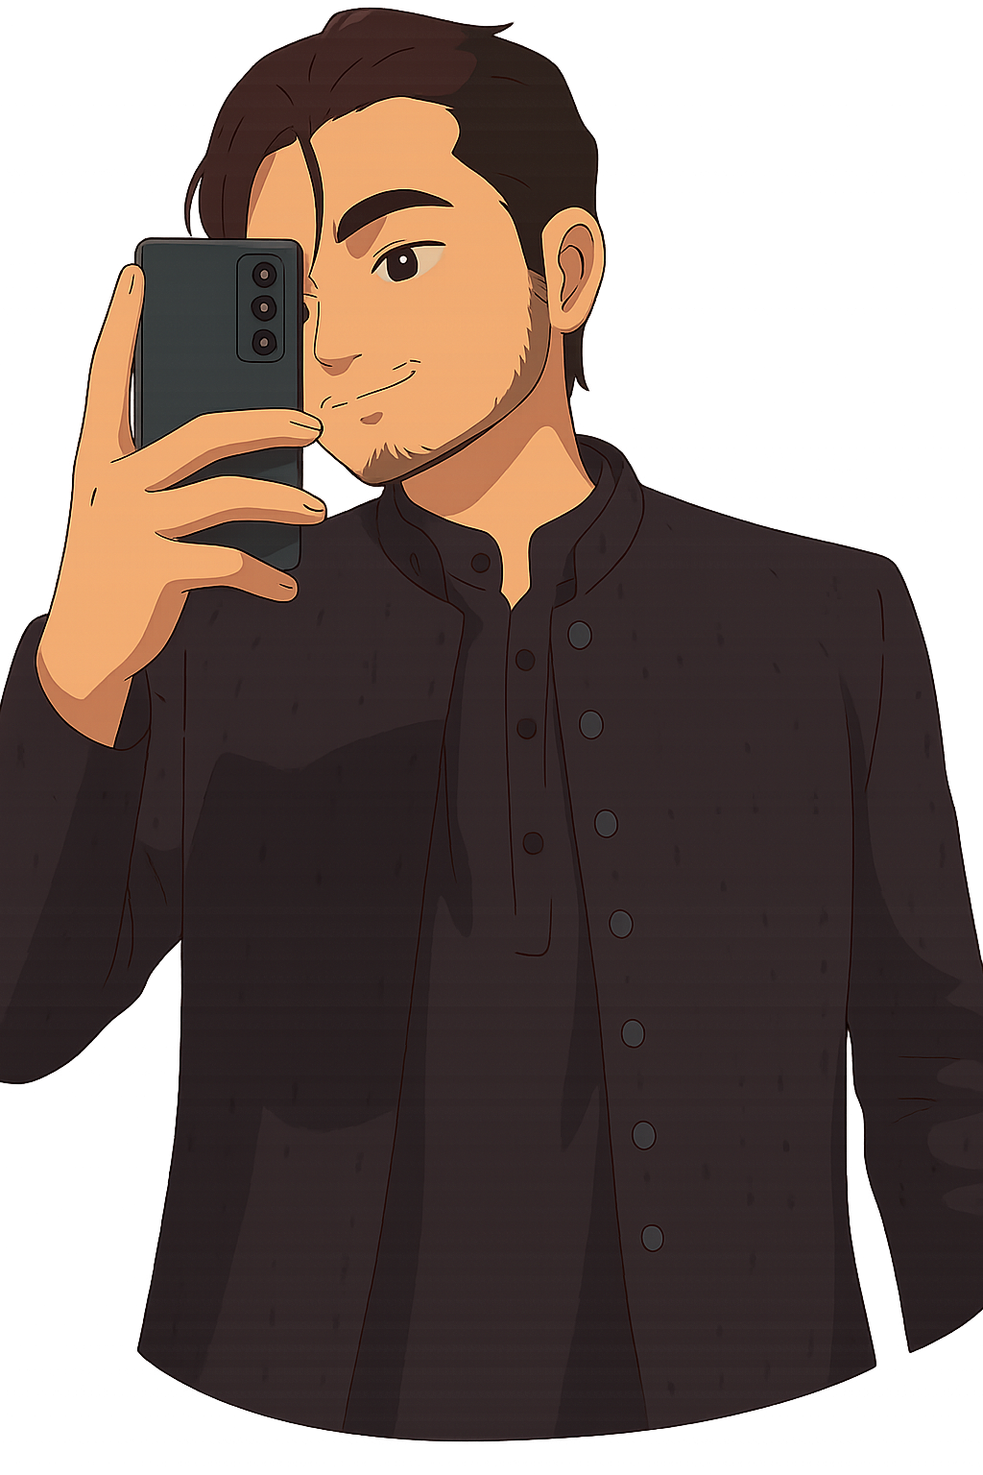
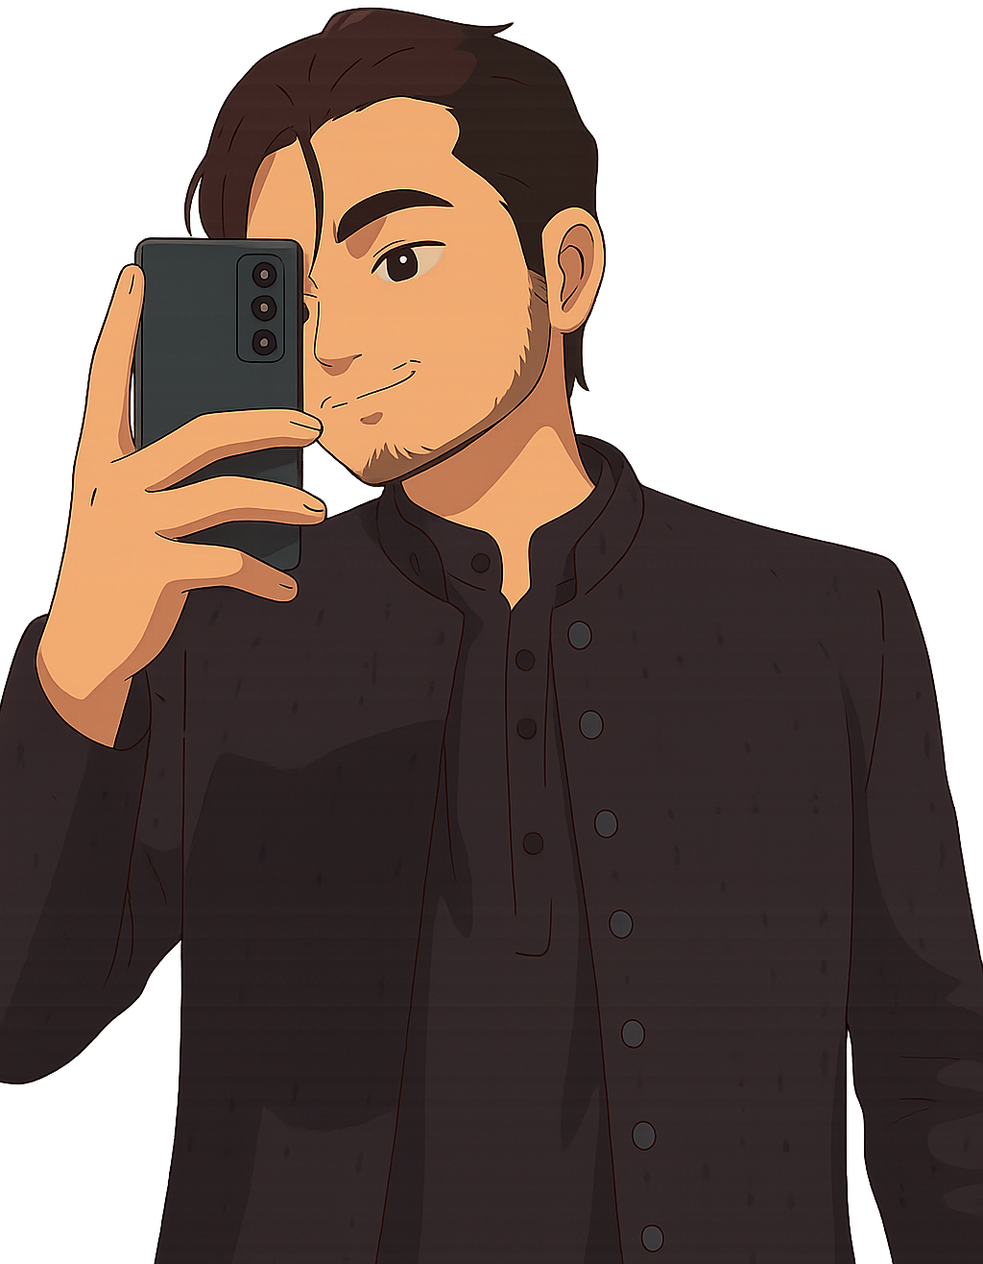
change in UI and then change the profile pic.

diff --git a/portfolio/src/components/About/About.jsx b/portfolio/src/components/About/About.jsx
@@ -25,34 +25,31 @@ function About() {
   return (
     <>
       <div className="col-span-8 row-span-9 grid grid-cols-subgrid grid-rows-subgrid max-lg:col-span-full max-lg:grid-rows-none max-lg:gap-4">
-        {/* Box 1: Introduction */}
-        <div className="box-1 col-span-5 row-span-5 max-lg:col-span-8 max-md:col-span-full bg-bison_hide border-bison_hide rounded-xl py-1 p-8 flex flex-col justify-end">
-          <h1 className="max-w-[37rem] pb-6 font-heading text-[2rem] font-normal leading-snug px-20">
+        <div className="box-1 col-span-5 row-span-5 max-lg:col-span-8 max-md:col-span-full bg-bison_hide border-bison_hide rounded-xl p-8 flex flex-col justify-end">
+          <h1 className="max-w-[37rem] pb-6 font-heading font-serif text-[2rem] font-normal leading-snug xl:px-20">
             Hi, I'm Sameer Singhal
           </h1>
-          <h2 className="max-w-[35rem] pb-8 font-heading text-[1rem] font-normal leading-snug">
-            <span className="italic text-[1.5rem]">
-              Pre-Final Year CSE Student & Full Stack Developer
-            </span>{" "}
-            Passionate about solving real-world problems through Data Structures, Algorithms, Development, and Competitive Programming. Currently pursuing Computer Science with a focus on building a strong foundation in modern software development and coding excellence.
+          <h2 className="max-w-[35rem] font-heading font-serif text-[1rem] font-normal leading-snug">
+            <span className="italic text-[1.4rem] block mb-4">
+              Pre-Final Year CSE Student & Full Stack Developer{" "}
+            </span>
+            <span className="block mt-4">
+              Passionate about solving real-world problems through Data Structures, Algorithms, Development, and Competitive Programming. Currently pursuing Computer Science with a focus on building a strong foundation in modern software development and coding excellence.
+            </span>
           </h2>
         </div>
-
-        {/* Box 2: Profile Image */}
         <div className="box-2 col-span-3 row-span-5 max-lg:col-span-4 max-md:col-span-full bg-armadillo border-armadillo rounded-xl">
           <img
-            src="Profile_pic.png"
+            src="Profile_picture.png"
             fetchPriority="high"
             decoding="async"
             alt="profile_image"
-            className="w-full object-full xl:p-8 xl:object-cover"
+            className="w-full max-h-full"
           />
         </div>
-
-        {/* Box 3: About Me */}
         <div className="box-3 col-span-4 row-span-4 max-lg:col-span-6 max-lg:min-h-[20rem] max-md:col-span-full bg-bison_hide border-bison_hide rounded-xl">
           <div className="flex size-full flex-col justify-between gap-4">
-            <p className="max-w-[30rem] text-[.9rem] p-5 leading-[135%]">
+            <p className="max-w-[30rem] text-[.9rem] p-5 leading-[135%] font-heading font-serif">
               👨🎓
               <br />
               About Me 
@@ -67,25 +64,21 @@ function About() {
               <br />
               I thrive on tackling challenging problems and love turning ideas into real-world applications. I'm also enthusiastic about exploring new technologies, continuously learning, and growing as a developer.
               <br />
-              Beyond the code, you'll often find me immersed in music 🎧, enjoying games 🎮, or diving into the latest tech trends.
-              <br />
               Let's connect, code, and collaborate! 🚀
             </p>
           </div>
         </div>
-
-        {/* Box 4: Location & Hobbies */}
         <div className="box-4 col-span-4 row-span-4 max-lg:col-span-6 max-lg:min-h-[20rem] max-md:col-span-full bg-armadillo border-armadillo rounded-xl relative overflow-hidden">
           <div className="flex size-full flex-col justify-between gap-4 p-5">
             <div>
-              <h3 className="text-[#e5decd] text-xl font-semibold mb-3">Where I'm From</h3>
-              <p className="text-[#e5decd] text-base">
+              <h3 className="text-[#e5decd] text-xl font-semibold mb-3 font-heading font-serif">Where I'm From</h3>
+              <p className="text-[#e5decd] text-base font-heading font-serif">
                 I'm from India 🇮🇳, a vibrant country with a rich culture and diverse landscapes. I enjoy exploring new places and experiencing different traditions.
               </p>
             </div>
             <div>
-              <h3 className="text-[#e5decd] text-xl font-semibold mb-3">Hobbies</h3>
-              <p className="text-[#e5decd] text-base">
+              <h3 className="text-[#e5decd] text-xl font-semibold mb-3 font-heading font-serif">Hobbies</h3>
+              <p className="text-[#e5decd] text-base font-heading font-serif">
                 Beyond coding, I love immersing myself in music 🎧, enjoying games 🎮, and diving into the latest tech trends. I also enjoy reading and playing outdoor sports.
               </p>
             </div>
@@ -98,7 +91,7 @@ function About() {
         <div className="box-5 col-span-4 row-span-8 max-lg:col-span-full bg-bison_hide border-bison_hide rounded-xl overflow-y-auto">
           <div className="flex h-full flex-col p-6 gap-2">
             <div className="mb-4">
-              <h3 className="font-heading text-xl font-semibold mb-3 text-[#06141B]">Languages</h3>
+              <h3 className="font-heading font-serif text-xl font-semibold mb-3 text-[#06141B]">Languages</h3>
               <div className="flex flex-wrap gap-2">
                 {technicalSkills.filter(skill => skill.category === 'Languages').map(skill => (
                   <span key={skill.name} className="inline-flex items-center rounded-md border px-2.5 py-0.5 text-xs font-medium text-[#06141B] bg-armadillo border-[#06141B]">{skill.name}</span>
@@ -106,7 +99,7 @@ function About() {
               </div>
             </div>
             <div className="mb-4">
-              <h3 className="font-heading text-xl font-semibold mb-3 text-[#06141B]">Frameworks & Libraries</h3>
+              <h3 className="font-heading font-serif text-xl font-semibold mb-3 text-[#06141B]">Frameworks & Libraries</h3>
               <div className="flex flex-wrap gap-2">
                 {technicalSkills.filter(skill => skill.category === 'Frameworks').map(skill => (
                   <span key={skill.name} className="inline-flex items-center rounded-md border px-2.5 py-0.5 text-xs font-medium text-[#06141B] bg-armadillo border-[#06141B]">{skill.name}</span>
@@ -114,7 +107,7 @@ function About() {
               </div>
             </div>
             <div>
-              <h3 className="font-heading text-xl font-semibold mb-3 text-[#06141B]">Tools & Technologies</h3>
+              <h3 className="font-heading font-serif text-xl font-semibold mb-3 text-[#06141B]">Tools & Technologies</h3>
               <div className="flex flex-wrap gap-2">
                 {technicalSkills.filter(skill => skill.category === 'Tools' || skill.category === 'Technologies' || skill.category === 'Databases' || skill.category === 'Backend as a Service' || skill.category === 'DevOps').map(skill => (
                   <span key={skill.name} className="inline-flex items-center rounded-md border px-2.5 py-0.5 text-xs font-medium text-[#06141B] bg-armadillo border-[#06141B]">{skill.name}</span>
@@ -123,15 +116,13 @@ function About() {
             </div>
           </div>
         </div>
-
-        {/* Box 6: Social Links */}
         <div className="box-6 col-span-4 row-span-1 max-lg:col-span-full max-lg:min-h-[5rem] bg-bison_hide border-bison_hide rounded-xl">
           <div className="flex size-full items-center justify-evenly gap-2">
             <a
               href="https://www.linkedin.com/in/sameersinghal26"
               target="_blank"
               rel="noopener noreferrer"
-              className="flex overflow-hidden text-xl font-medium leading-[100%] text-gray-500 hover:text-[#06141B] hover:bg-gray-50 lg:hover:bg-transparent lg:p-0"
+              className="flex overflow-hidden text-xl font-medium leading-[100%] text-gray-500 hover:text-[#06141B] hover:bg-gray-50 lg:hover:bg-transparent lg:p-0 font-heading font-serif"
             >
               LinkedIn
             </a>
@@ -139,7 +130,7 @@ function About() {
               href="https://github.com/SameerSinghal26"
               target="_blank"
               rel="noopener noreferrer"
-              className="flex overflow-hidden text-xl font-medium leading-[100%] text-gray-500 hover:text-[#06141B] hover:bg-gray-50 lg:hover:bg-transparent lg:p-0"
+              className="flex overflow-hidden text-xl font-medium leading-[100%] text-gray-500 hover:text-[#06141B] hover:bg-gray-50 lg:hover:bg-transparent lg:p-0 font-heading font-serif"
             >
               Github
             </a>
@@ -147,7 +138,7 @@ function About() {
               href="https://x.com/SameerS73068018"
               target="_blank"
               rel="noopener noreferrer"
-              className="flex overflow-hidden text-xl font-medium leading-[100%] text-gray-500 hover:text-[#06141B] hover:bg-gray-50 lg:hover:bg-transparent lg:p-0"
+              className="flex overflow-hidden text-xl font-medium leading-[100%] text-gray-500 hover:text-[#06141B] hover:bg-gray-50 lg:hover:bg-transparent lg:p-0 font-heading font-serif"
             >
               Twitter
             </a>

diff --git a/portfolio/src/components/Home/Home.jsx b/portfolio/src/components/Home/Home.jsx
@@ -10,30 +10,31 @@ function Home() {
   return (
     <>
       <div className="col-span-8 row-span-9 grid grid-cols-subgrid grid-rows-subgrid max-lg:col-span-full max-lg:grid-rows-none max-lg:gap-4">
-        <div className="box-1 col-span-5 row-span-5 max-lg:col-span-8 max-md:col-span-full bg-bison_hide border-bison_hide rounded-xl  py-1 p-8 flex flex-col justify-end">
-          <h1 className="max-w-[37rem] pb-6 font-heading text-[2rem] font-normal leading-snug xl:px-20">
+        <div className="box-1 col-span-5 row-span-5 max-lg:col-span-8 max-md:col-span-full bg-bison_hide border-bison_hide rounded-xl p-8 flex flex-col justify-end">
+          <h1 className="max-w-[37rem] pb-6 font-heading font-serif text-[2rem] font-normal leading-snug xl:px-20">
             Hi, I'm Sameer Singhal
           </h1>
-          <h2 className="max-w-[35rem] pb-8 font-heading text-[1rem] font-normal leading-snug">
-            <span className="italic text-[1.5rem]">
-              {" "}
+          <h2 className="max-w-[35rem] font-heading font-serif text-[1rem] font-normal leading-snug">
+            <span className="italic text-[1.4rem] block mb-4">
               Pre-Final Year CSE Student & Full Stack Developer{" "}
-            </span>{" "}
-            Passionate about solving real-world problems through Data Structures, Algorithms, Development, and Competitive Programming. Currently pursuing Computer Science with a focus on building a strong foundation in modern software development and coding excellence.
+            </span>
+            <span className="block mt-4">
+              Passionate about solving real-world problems through Data Structures, Algorithms, Development, and Competitive Programming. Currently pursuing Computer Science with a focus on building a strong foundation in modern software development and coding excellence.
+            </span>
           </h2>
         </div>
         <div className="box-2 col-span-3 row-span-5 max-lg:col-span-4 max-md:col-span-full bg-armadillo border-armadillo rounded-xl">
           <img
-            src="Profile_pic.png"
+            src="Profile_picture.png"
             fetchPriority="high"
             decoding="async"
             alt="profile_image"
-            className="w-full  object-full xl:p-8 xl:object-cover"
+            className="w-full max-h-full"
           />
         </div>
         <div className="box-3 col-span-4 row-span-4 max-lg:col-span-6 max-lg:min-h-[20rem] max-md:col-span-full bg-bison_hide border-bison_hide rounded-xl">
           <div className="flex size-full flex-col justify-between gap-4">
-            <p className="max-w-[30rem] text-[.9rem] p-5 leading-[135%]">
+            <p className="max-w-[30rem] text-[.9rem] p-5 leading-[135%] font-heading font-serif">
               👨🎓
               <br />
               About Me 
@@ -44,19 +45,19 @@ function Home() {
               <br />
               Currently, I'm in my 2nd year of studies.
               <br />
-              Over the past few months, I’ve been building a strong foundation in Data Structures, Algorithms, and Full Stack Web Development.
+              Over the past few months, I've been building a strong foundation in Data Structures, Algorithms, and Full Stack Web Development.
               <br />
               I thrive on tackling challenging problems and love turning ideas into real-world applications. I'm also enthusiastic about exploring new technologies, continuously learning, and growing as a developer.
               <br />
-              Beyond the code, you’ll often find me immersed in music 🎧, enjoying games 🎮, or diving into the latest tech trends.
+              Beyond the code, you'll often find me immersed in music 🎧, enjoying games 🎮, or diving into the latest tech trends.
               <br />
-              Let’s connect, code, and collaborate! 🚀
+              Let's connect, code, and collaborate! 🚀
             </p>
           </div>
         </div>
         <div className="box-4 col-span-4 row-span-4 max-lg:col-span-6 max-lg:min-h-[20rem] max-md:col-span-full bg-armadillo border-armadillo rounded-xl relative overflow-hidden">
           {/* Top left text */}
-          <span className="absolute top-4 left-4 text-[#e5decd] text-base">Have some<br />questions?</span>
+          <span className="absolute top-4 left-4 text-[#e5decd] text-base font-heading font-serif">Have some<br />questions?</span>
           {/* Top right arrow */}
           <span className="absolute top-4 right-4">
             <NavLink
@@ -131,7 +132,7 @@ function Home() {
               href="https://www.linkedin.com/in/sameersinghal26"
               target="_blank"
               rel="noopener noreferrer"
-              className="flex overflow-hidden text-xl font-medium leading-[100%] text-gray-500 hover:text-[#06141B] hover:bg-gray-50 lg:hover:bg-transparent lg:p-0"
+              className="flex overflow-hidden text-xl font-medium leading-[100%] text-gray-500 hover:text-[#06141B] hover:bg-gray-50 lg:hover:bg-transparent lg:p-0 font-heading font-serif"
             >
               LinkedIn
             </a>
@@ -139,7 +140,7 @@ function Home() {
               href="https://github.com/SameerSinghal26"
               target="_blank"
               rel="noopener noreferrer"
-              className="flex overflow-hidden text-xl font-medium leading-[100%] text-gray-500 hover:text-[#06141B] hover:bg-gray-50 lg:hover:bg-transparent lg:p-0"
+              className="flex overflow-hidden text-xl font-medium leading-[100%] text-gray-500 hover:text-[#06141B] hover:bg-gray-50 lg:hover:bg-transparent lg:p-0 font-heading font-serif"
             >
               Github
             </a>
@@ -147,7 +148,7 @@ function Home() {
               href="https://x.com/SameerS73068018"
               target="_blank"
               rel="noopener noreferrer"
-              className="flex overflow-hidden text-xl font-medium leading-[100%] text-gray-500 hover:text-[#06141B] hover:bg-gray-50 lg:hover:bg-transparent lg:p-0"
+              className="flex overflow-hidden text-xl font-medium leading-[100%] text-gray-500 hover:text-[#06141B] hover:bg-gray-50 lg:hover:bg-transparent lg:p-0 font-heading font-serif"
             >
               Twitter
             </a>

diff --git a/portfolio/src/components/Contact/Contact.jsx b/portfolio/src/components/Contact/Contact.jsx
@@ -46,48 +46,48 @@ function Contact() {
     <div className="col-span-12 row-span-9 flex justify-center items-center max-lg:col-span-full max-lg:grid-rows-none max-lg:gap-4">
       <div className="col-span-full bg-bison_hide border-bison_hide rounded-xl p-6 relative w-full sm:w-3/4 md:w-2/3 lg:w-1/2 xl:w-2/5 mx-auto">
         <div className="mx-auto mt-1 h-fit">
-          <div className="border-2 w-1/2 lg:w-1/3 ml-4 h-10 rounded-full border-[#06141B] bg-bison_hide text-[#06141B] pl-5 font-mono">
-            <strong className="text-xl md:text-2xl lg:text-2xl font-mono">Contact Me</strong>
+          <div className="border-2 w-1/2 lg:w-1/3 ml-4 h-10 rounded-full border-[#06141B] bg-bison_hide text-[#06141B] pl-5 font-heading font-serif">
+            <strong className="text-xl md:text-2xl lg:text-2xl font-heading font-serif">Contact Me</strong>
           </div>
           <div className="border-2 border-[#06141B] w-full mx-auto mt-2 h-fit pt-6 px-4 rounded-2xl bg-bison_hide">
-            <p className="text-[#06141B] text-xl mb-6 px-2">
+            <p className="text-[#06141B] text-xl mb-6 px-2 font-heading font-serif">
               You can contact me through completing this form
             </p>
             <form ref={form} onSubmit={sendEmail}>
-              <label htmlFor="name" className="mx-2 text-3xl lg:text-2xl font-mono text-[#06141B]">Name :</label>
+              <label htmlFor="name" className="mx-2 text-3xl lg:text-2xl font-heading font-serif text-[#06141B]">Name :</label>
               <br />
               <input 
                 id="name" 
                 placeholder="name" 
-                className="border-[#06141B] bg-bison_hide text-[#06141B] mx-2 mb-5 p-2 text-xl xl:text-2xl font-mono rounded-xl w-10/11 lg:w-1/2" 
+                className="border-[#06141B] bg-bison_hide text-[#06141B] mx-2 mb-5 p-2 text-xl xl:text-2xl font-heading font-serif rounded-xl w-10/11 lg:w-1/2" 
                 type="text" 
                 name="user_name"
                 required
               />
               <br />
-              <label htmlFor="email" className="mx-2 text-3xl lg:text-2xl font-mono text-[#06141B]">Email :</label>
+              <label htmlFor="email" className="mx-2 text-3xl lg:text-2xl font-heading font-serif text-[#06141B]">Email :</label>
               <br />
               <input 
                 id="email" 
                 placeholder="email" 
-                className="border-[#06141B] bg-bison_hide text-[#06141B] mx-2 mb-5 p-2 text-xl xl:text-2xl font-mono rounded-xl w-10/11 lg:w-1/2" 
+                className="border-[#06141B] bg-bison_hide text-[#06141B] mx-2 mb-5 p-2 text-xl xl:text-2xl font-heading font-serif rounded-xl w-10/11 lg:w-1/2" 
                 type="email" 
                 name="user_email"
                 required
               />
               <br />
-              <label htmlFor="message" className="mx-2 text-3xl lg:text-2xl font-mono text-[#06141B]">Message :</label>
+              <label htmlFor="message" className="mx-2 text-3xl lg:text-2xl font-heading font-serif text-[#06141B]">Message :</label>
               <br />
               <textarea 
                 id="message" 
                 placeholder="type something..." 
-                className="border-[#06141B] bg-bison_hide text-[#06141B] mx-2 mb-5 p-2 text-xl xl:text-2xl font-mono rounded-xl w-10/11 lg:w-1/2 h-32 resize-none" 
+                className="border-[#06141B] bg-bison_hide text-[#06141B] mx-2 mb-5 p-2 text-xl xl:text-2xl font-heading font-serif rounded-xl w-10/11 lg:w-1/2 h-32 resize-none" 
                 name="message"
                 required
               />
               <br />
               <button 
-                className={`bg-armadillo text-[#e5decd] w-40 h-12 rounded-xl text-2xl text-center font-mono mx-2 mb-4 transition-colors duration-300 ${
+                className={`bg-armadillo text-[#e5decd] w-40 h-12 rounded-xl text-2xl text-center font-heading font-serif mx-2 mb-4 transition-colors duration-300 ${
                   isSubmitting ? 'opacity-50 cursor-not-allowed' : 'hover:cursor-pointer hover:bg-soya_bean'
                 }`}
                 type="submit"

diff --git a/portfolio/src/components/Header/Header.jsx b/portfolio/src/components/Header/Header.jsx
@@ -12,9 +12,9 @@ function Header() {
     <div className="col-span-full row-span-1 bg-bison_hide border-bison_hide rounded-xl">
       <nav className="flex flex-wrap justify-between items-center px-6 ">
         <div className="flex justify-between items-center w-full lg:w-auto">
-          <div className="overflow-hidden font-heading text-2xl font-normal">
+          <div className="overflow-hidden font-heading font-serif text-2xl font-normal">
             <Link to="/" className="flex items-center">
-              <h1 className="text-gray-700 text-3xl">
+              <h1 className="text-gray-700 text-3xl font-heading font-serif">
                 <img src="/name.png" className="h-16 flex-shrink-0 " alt="Sameer Singhal"/>
               </h1>
             </Link>
@@ -51,7 +51,7 @@ function Header() {
                 to="/"
                 onClick={toggleMenu}
                 className={({ isActive }) =>
-                  `block py-2 px-3 duration-200 text-xl ${
+                  `block py-2 px-3 duration-200 text-xl font-heading font-serif ${
                     isActive ? "text-[#06141B]" : "text-gray-500"
                   } hover:text-[#06141B] hover:bg-gray-50 lg:hover:bg-transparent lg:p-0`
                 }
@@ -64,7 +64,7 @@ function Header() {
                 to="/about"
                 onClick={toggleMenu}
                 className={({ isActive }) =>
-                  `block py-2 px-3 duration-200 text-xl ${
+                  `block py-2 px-3 duration-200 text-xl font-heading font-serif ${
                     isActive ? "text-[#06141B]" : "text-gray-500"
                   } hover:text-[#06141B] hover:bg-gray-50 lg:hover:bg-transparent lg:p-0`
                 }
@@ -77,7 +77,7 @@ function Header() {
                 to="/contact"
                 onClick={toggleMenu}
                 className={({ isActive }) =>
-                  `block py-2 px-3 duration-200 text-xl ${
+                  `block py-2 px-3 duration-200 text-xl font-heading font-serif ${
                     isActive ? "text-[#06141B]" : "text-gray-500"
                   } hover:text-[#06141B] hover:bg-gray-50 lg:hover:bg-transparent lg:p-0`
                 }
@@ -90,7 +90,7 @@ function Header() {
                 to="/project"
                 onClick={toggleMenu}
                 className={({ isActive }) =>
-                  `block py-2 px-3 duration-200 text-xl ${
+                  `block py-2 px-3 duration-200 text-xl font-heading font-serif ${
                     isActive ? "text-[#06141B]" : "text-gray-500"
                   } hover:text-[#06141B] hover:bg-gray-50 lg:hover:bg-transparent lg:p-0`
                 }
@@ -100,7 +100,7 @@ function Header() {
             </li>
             <li>
               <button>
-                <a className="block duration-200 text-xl text-gray-500" href="https://docs.google.com/document/d/1XWMm8B9InjAUFbICr9V46-uK9LqoPYAAA1uwhlEyOM0/edit?tab=t.0" target="_blank" onClick={toggleMenu}>Resume</a>
+                <a className="block duration-200 text-xl text-gray-500 font-heading font-serif mb-4 lg:mb-0" href="https://docs.google.com/document/d/1XWMm8B9InjAUFbICr9V46-uK9LqoPYAAA1uwhlEyOM0/edit?tab=t.0" target="_blank" onClick={toggleMenu}>Resume</a>
               </button>
             </li>
           </ul>

diff --git a/portfolio/src/components/Project/Project.jsx b/portfolio/src/components/Project/Project.jsx
@@ -11,7 +11,7 @@ function Project() {
         >
           {/* Card header - Fixed at top */}
           <div className="flex items-center justify-between px-6 sticky top-0 bg-inherit z-10">
-            <div className="leading-none font-semibold text-xl">{project.title}</div>
+            <div className="leading-none font-heading font-serif text-xl">{project.title}</div>
             <div className="flex gap-2">
               {/* GitHub Button */}
               <a
@@ -44,7 +44,7 @@ function Project() {
           
           {/* Scrollable content */}
           <div className="flex-1 overflow-y-auto no-scrollbar">
-            <div className='font-semibold px-7'>
+            <div className='font-heading font-serif px-7'>
               {project.content}
             </div>
             {/* Card content (image) */}
@@ -67,7 +67,7 @@ function Project() {
               {project.technologies.map((tech) => (
                 <span
                   key={tech}
-                  className={`${idx % 2 === 1 ? " border-bison_hide" : " border-armadillo"} inline-flex items-center justify-center rounded-md border px-2 py-0.5 text-xs font-medium w-fit whitespace-nowrap shrink-0 [&>svg]:size-3 gap-1 [&>svg]:pointer-events-none focus-visible:border-ring focus-visible:ring-ring/50 focus-visible:ring-[3px] aria-invalid:ring-destructive/20 dark:aria-invalid:ring-destructive/40 aria-invalid:border-destructive transition-[color,box-shadow] overflow-hidden text-foreground [a&]:hover:bg-accent [a&]:hover:text-accent-foreground`}
+                  className={`${idx % 2 === 1 ? " border-bison_hide" : " border-armadillo"} inline-flex items-center justify-center rounded-md border px-2 py-0.5 text-xs font-heading font-serif w-fit whitespace-nowrap shrink-0 [&>svg]:size-3 gap-1 [&>svg]:pointer-events-none focus-visible:border-ring focus-visible:ring-ring/50 focus-visible:ring-[3px] aria-invalid:ring-destructive/20 dark:aria-invalid:ring-destructive/40 aria-invalid:border-destructive transition-[color,box-shadow] overflow-hidden text-foreground [a&]:hover:bg-accent [a&]:hover:text-accent-foreground`}
                 >
                   {tech}
                 </span>
